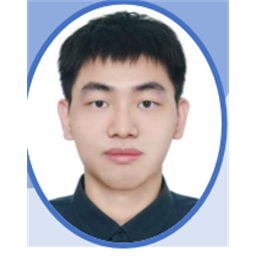
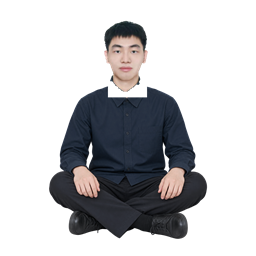
feat(v2): add body to math master companion

diff --git a/src/data/catalogs/anchors.ts b/src/data/catalogs/anchors.ts
@@ -29,11 +29,11 @@ export const ANCHORS: Readonly<Record<string, CharacterAnchors>> = {
     back: { left: 120, top: 80, width: 120 },
   },
   math_master: {
-    head: { left: 52, top: -8, width: 152 },
-    neck: { left: 80, top: 176, width: 96 },
-    face: { left: 60, top: 66, width: 136 },
-    hand: { left: 154, top: 178, width: 72 },
-    back: { left: 126, top: 126, width: 126 },
+    head: { left: 88, top: 4, width: 80 },
+    neck: { left: 101, top: 84, width: 55 },
+    face: { left: 98, top: 42, width: 60 },
+    hand: { left: 160, top: 132, width: 55 },
+    back: { left: 118, top: 94, width: 108 },
   },
   dog: {
     head: { left: 55, top: -5, width: 105 },

diff --git a/src/data/catalogs/appearance.ts b/src/data/catalogs/appearance.ts
@@ -27,7 +27,7 @@ export interface ItemDefinition {
 
 /**
  * 全部角色使用同一套 256×256 透明画布。动物伙伴采用 V2 原创二次元 2D 立绘，
- * 用户提供的真人伙伴保留原图，只做等比适配。
+ * 用户提供的真人伙伴保留原始头部像素，身体使用写实补绘并做透明合成。
  *
  * 解锁等级刻意拉长到 28 级，保证成长过程中持续出现新伙伴或新装扮。
  */
